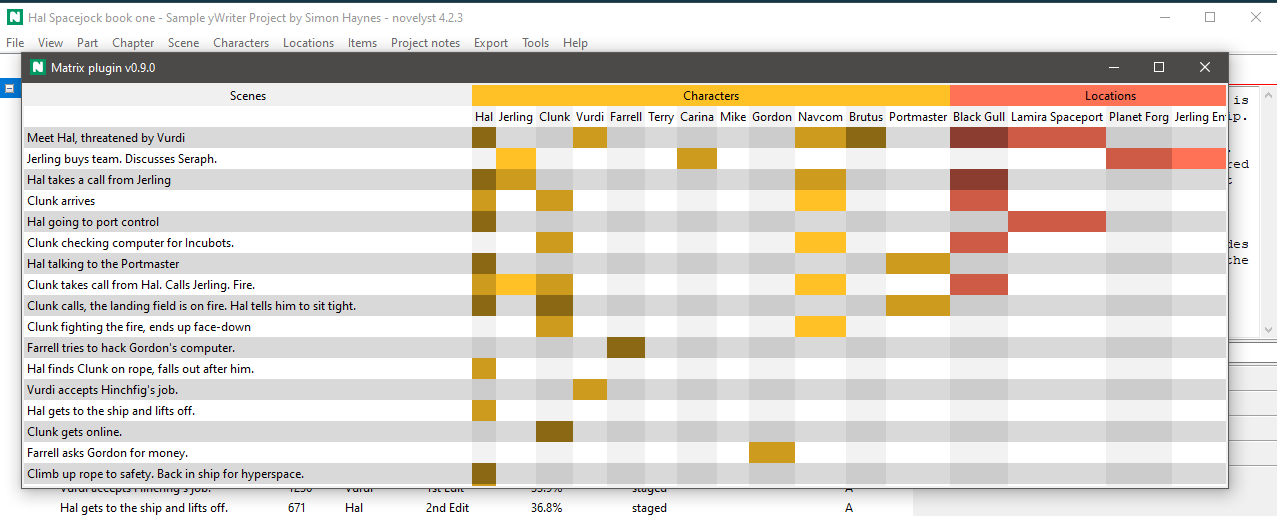
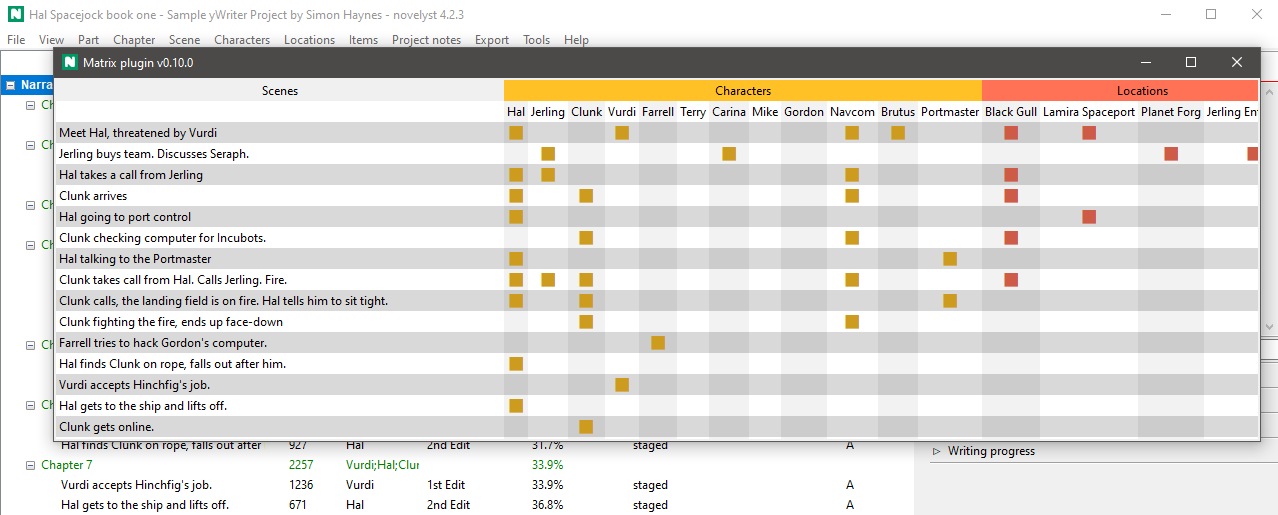
Prepare v0.10.0, compatible with novelyst v4.0 API
- Change the node design.

Based on yw-table v0.9.0

diff --git a/docs/index.md b/docs/index.md
@@ -18,9 +18,9 @@ The [novelyst](https://peter88213.github.io/novelyst/) Python program helps auth
 
 ## Download and install
 
-[Download the latest release (version 0.9.0)](https://github.com/peter88213/novelyst_matrix/raw/main/dist/novelyst_matrix_v0.9.0.zip)
+[Download the latest release (version 0.10.0)](https://github.com/peter88213/novelyst_matrix/raw/main/dist/novelyst_matrix_v0.10.0.zip)
 
-- Unzip the downloaded zipfile "novelyst_matrix_v0.9.0.zip" into a new folder.
+- Unzip the downloaded zipfile "novelyst_matrix_v0.10.0.zip" into a new folder.
 - Move into this new folder and launch **setup.pyw**. This installs the plugin for the local user.
 - Open "README.md" for usage instructions.
 

diff --git a/docs/changelog.md b/docs/changelog.md
@@ -5,6 +5,13 @@
 ## Changelog
 
 
+### v0.10.0 Alpha
+
+- Change the node design.
+
+Based on yw-table v0.9.0
+Compatibility: novelyst v4.0 API
+
 ### v0.9.0 Alpha
 
 - Save window size and position in a configuration file.
